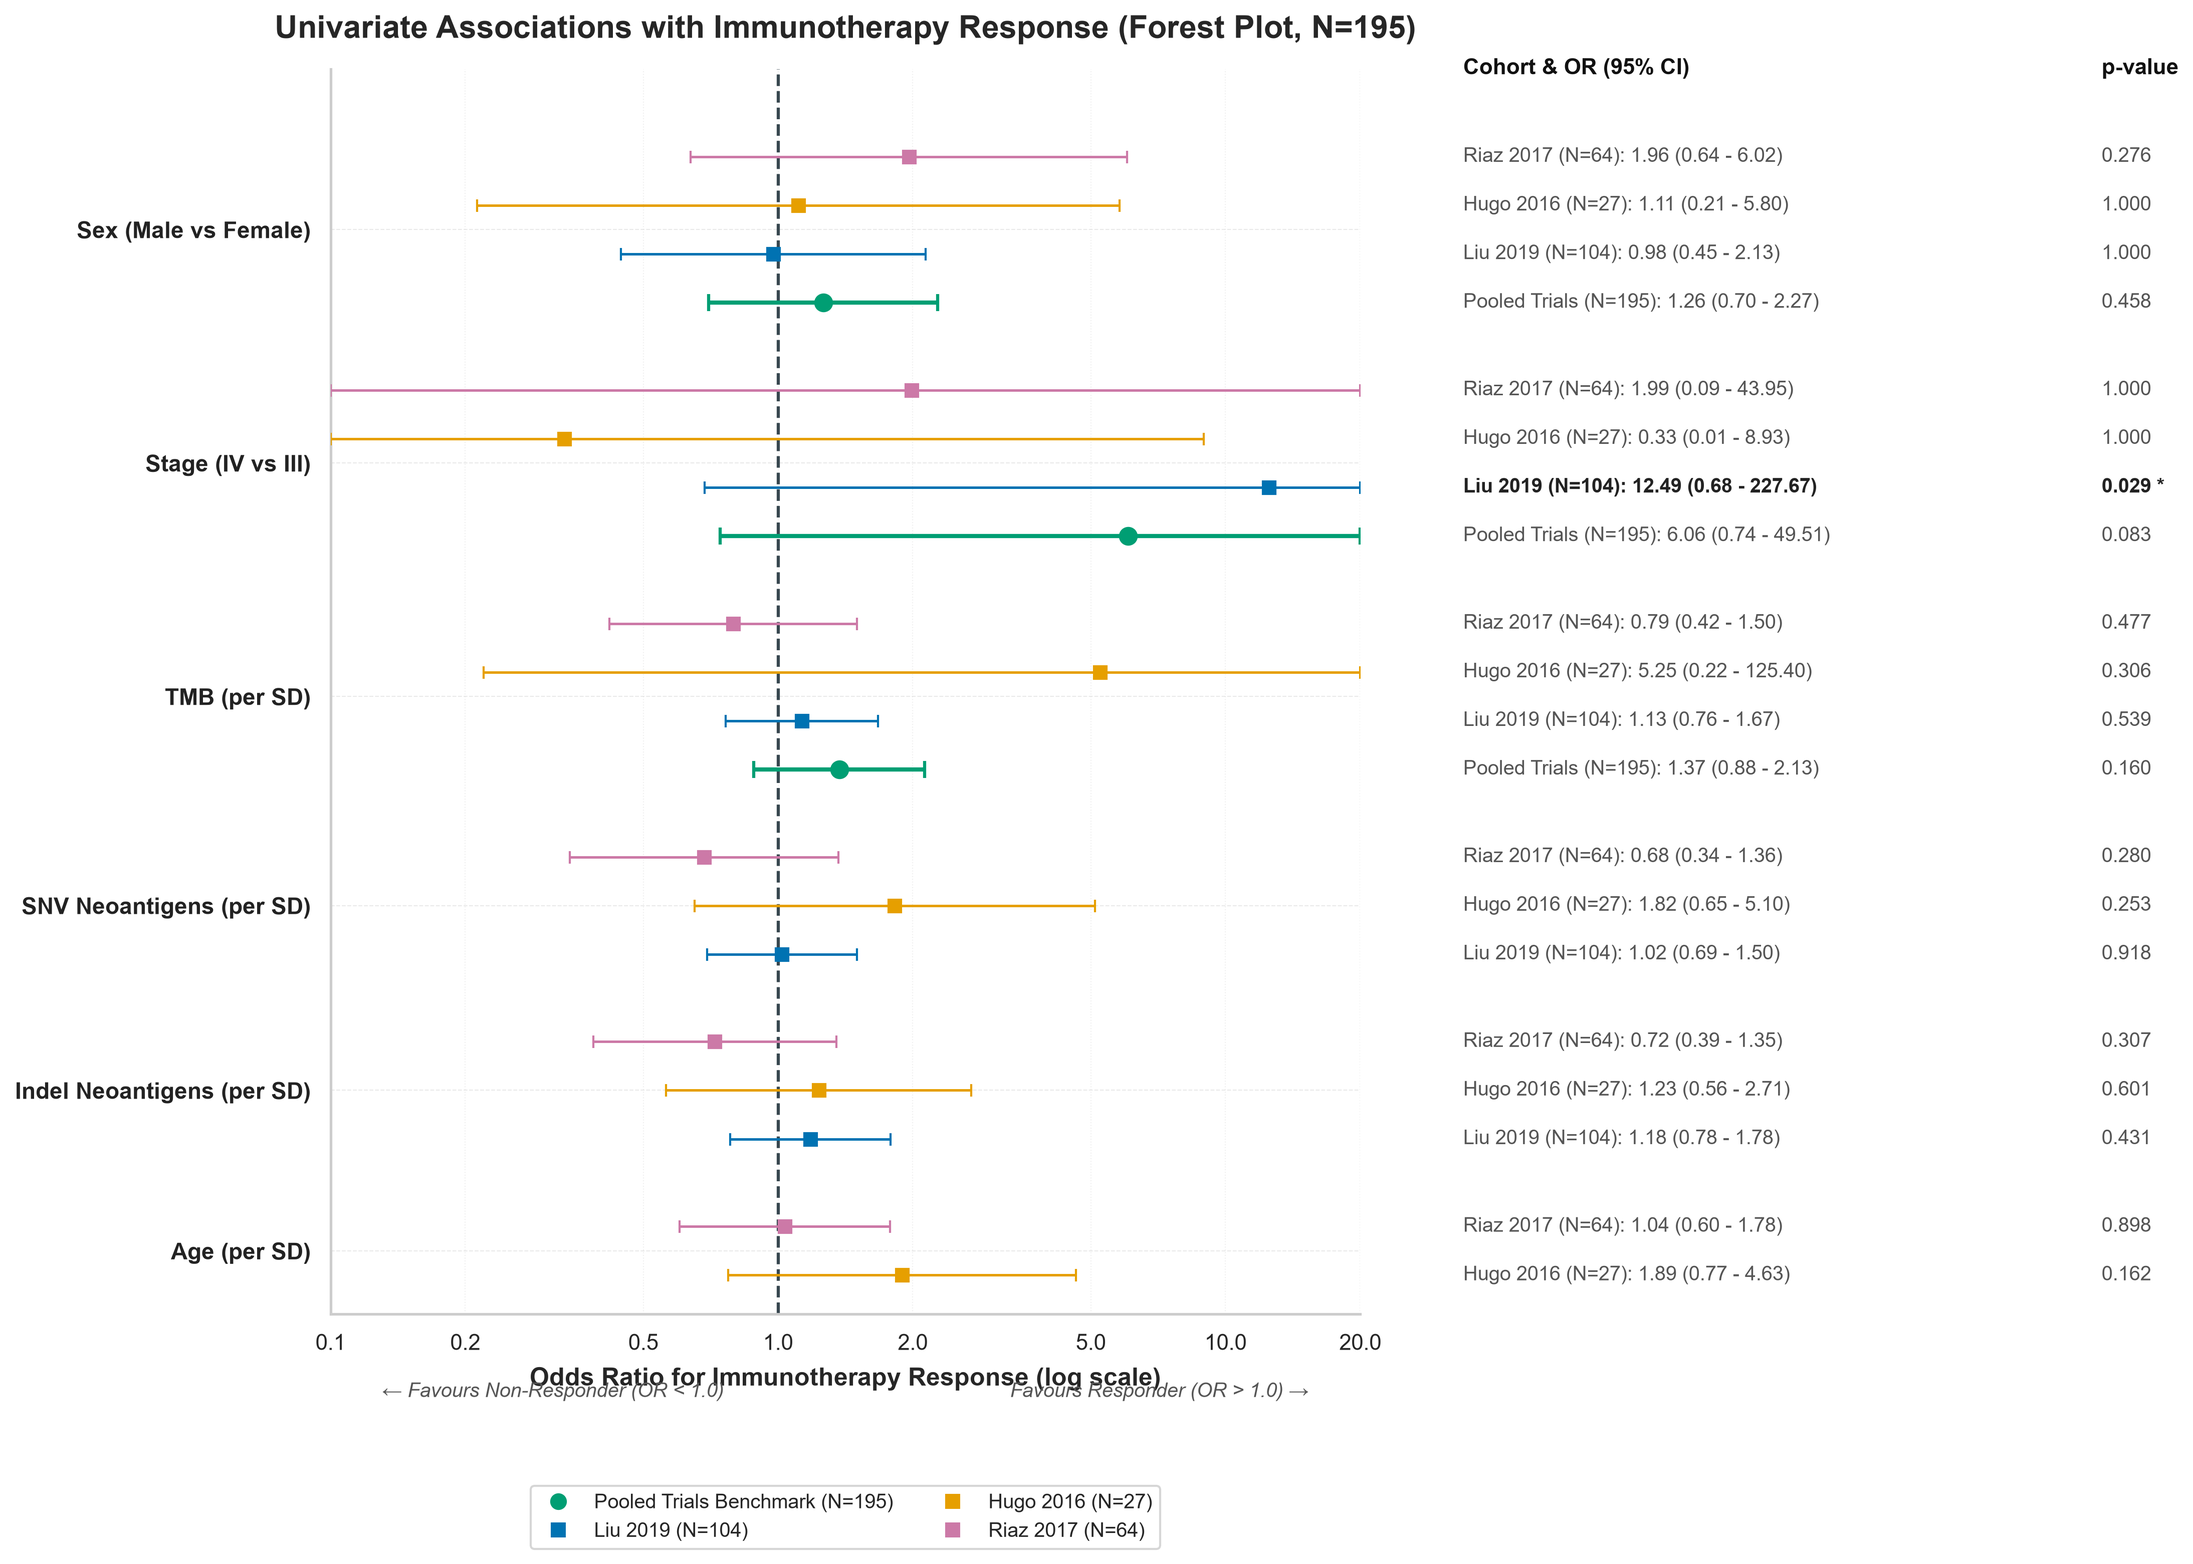
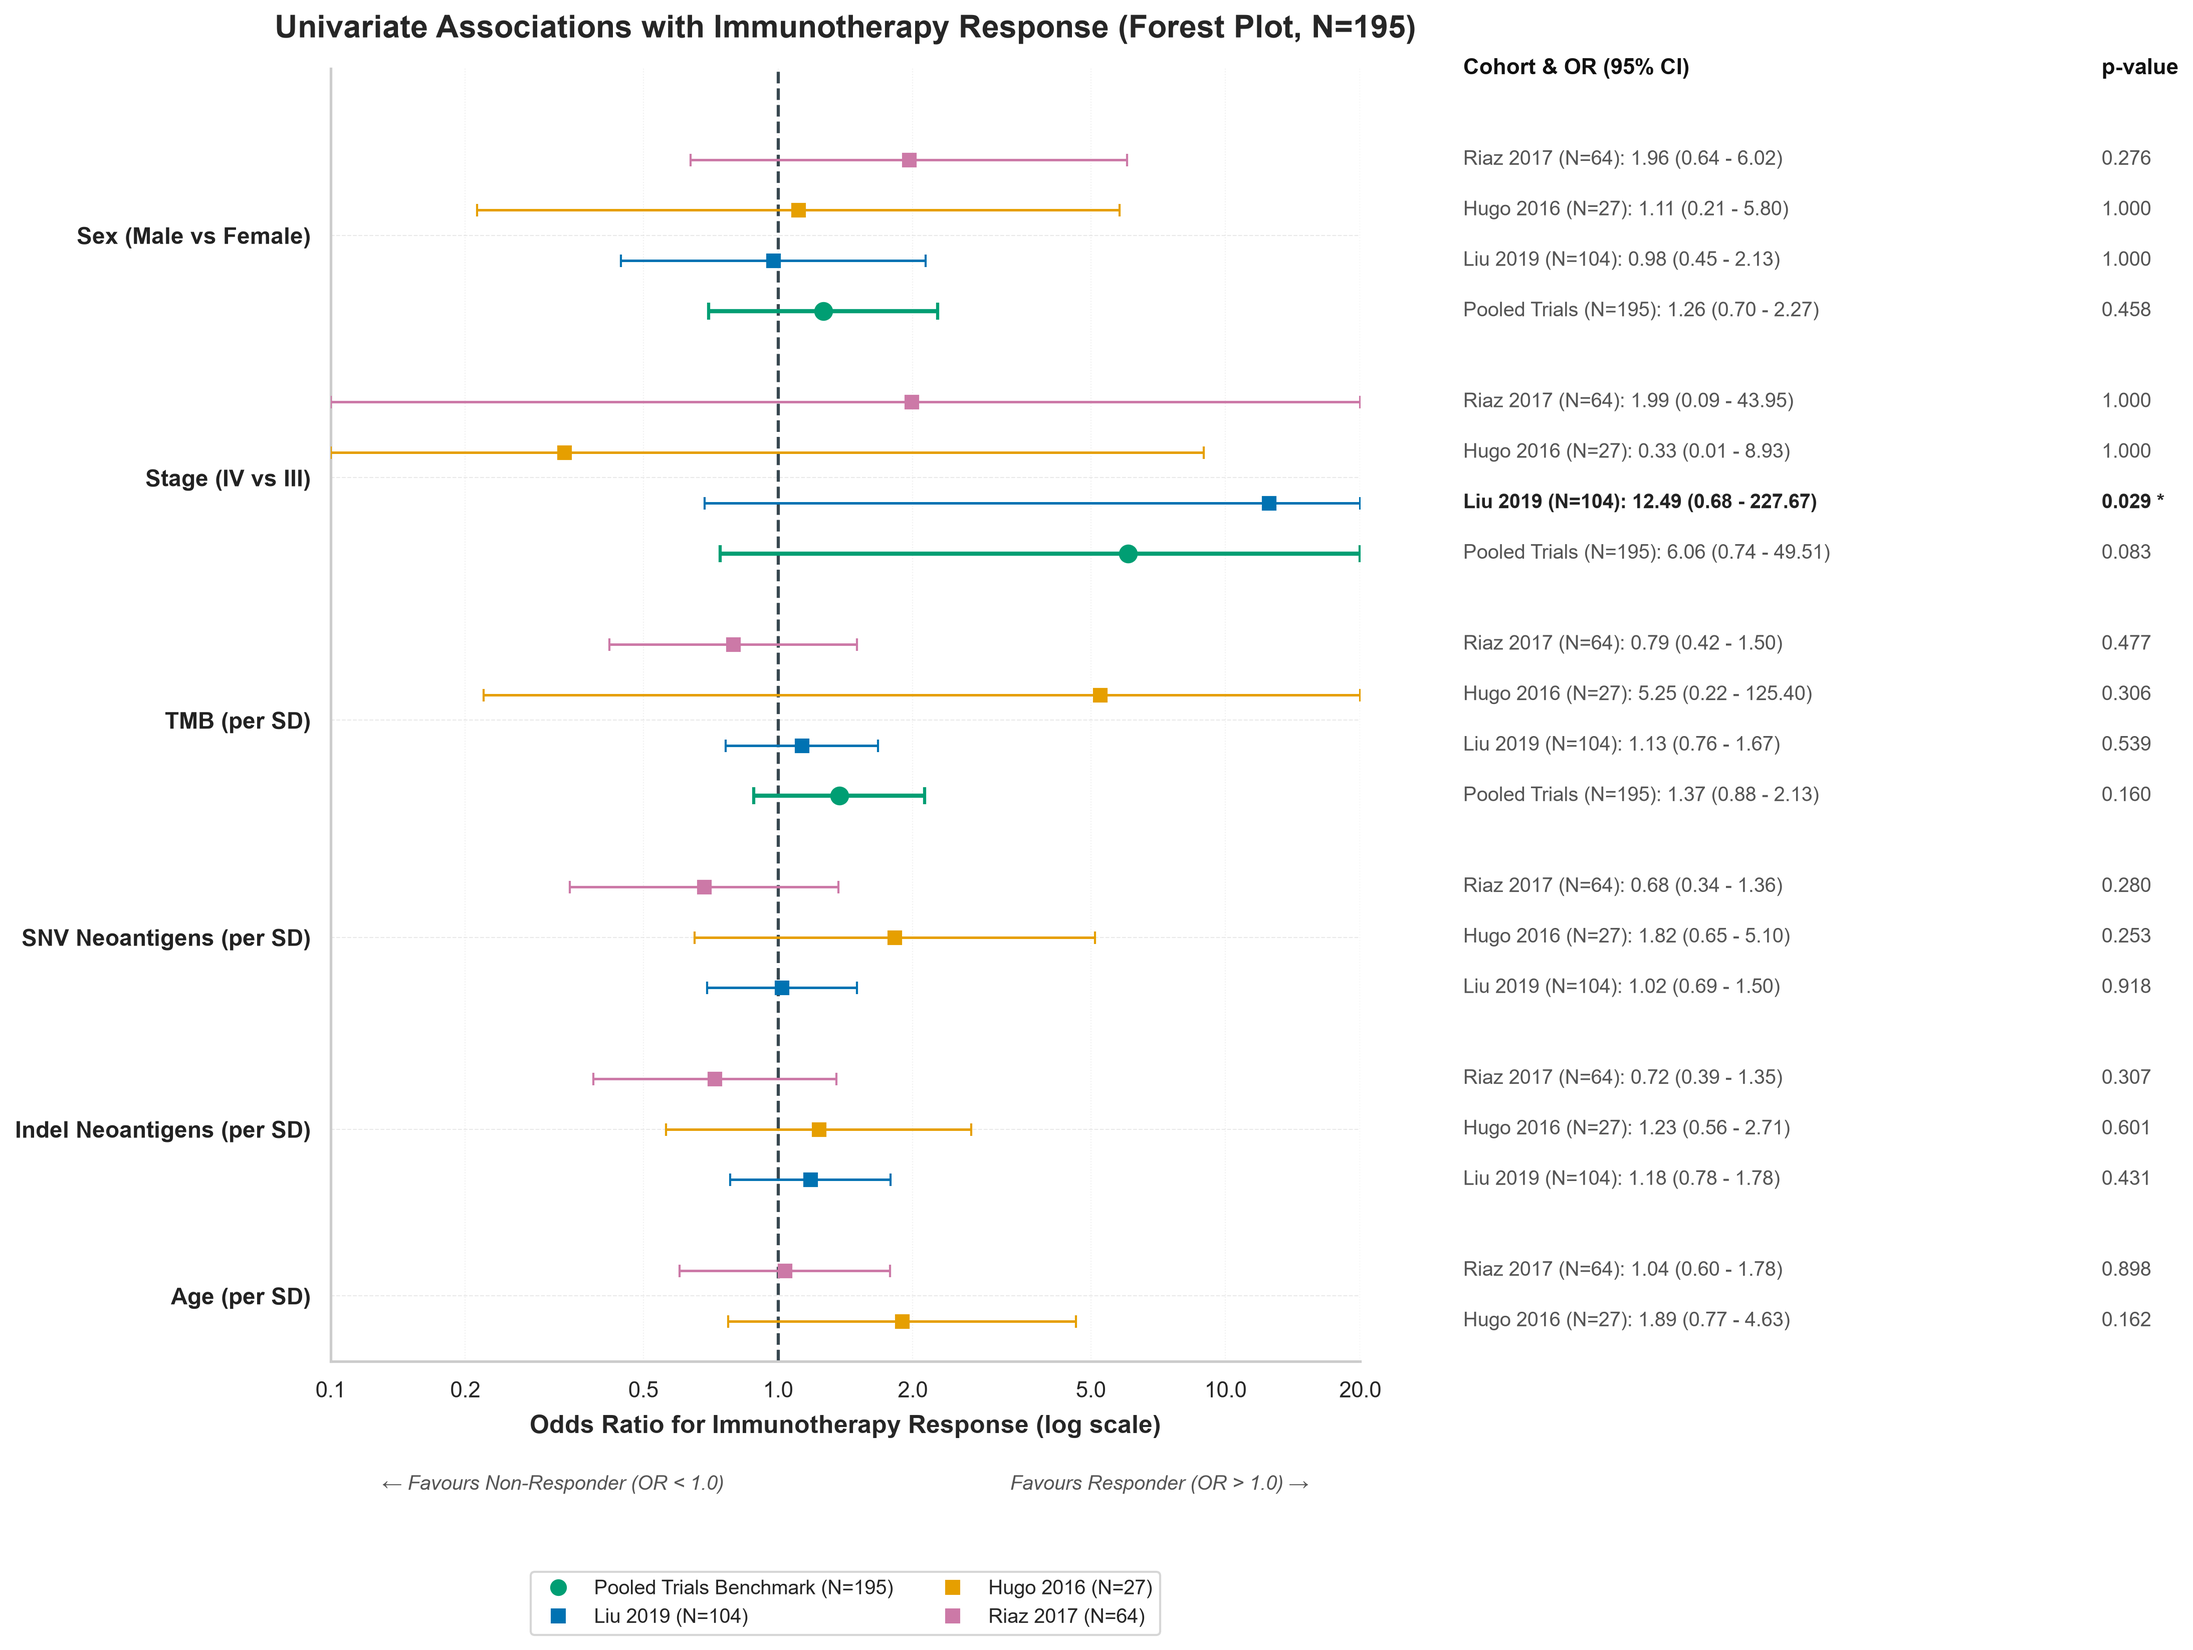
fix(visualization): shift direction text and legend down to avoid x-axis title overlap in univariate_associations.png
- Shifted direction text to y=-0.088 and cohort legend to bbox_to_anchor=(0.5, -0.155) in run_univariate_associations.py.
- Expanded bottom margin to 0.20 and figure height to 11 inches for optimal vertical spacing.

diff --git a/q1-response-predictor/scripts/clinical_analysis/run_univariate_associations.py b/q1-response-predictor/scripts/clinical_analysis/run_univariate_associations.py
@@ -256,8 +256,8 @@ def _plot_univariate_associations(all_results: pd.DataFrame, cohort_counts: Dict
 
     set_presentation_style()
     sns.set_theme(style="whitegrid")
-    fig, ax = plt.subplots(figsize=(13, 10.5))
-    plt.subplots_adjust(left=0.28, right=0.62, top=0.90, bottom=0.16)
+    fig, ax = plt.subplots(figsize=(13, 11))
+    plt.subplots_adjust(left=0.28, right=0.62, top=0.90, bottom=0.20)
 
     ax.set_xscale("log")
     ax.axvline(1.0, color="#37474F", linestyle="--", linewidth=1.5, zorder=1)
@@ -334,8 +334,8 @@ def _plot_univariate_associations(all_results: pd.DataFrame, cohort_counts: Dict
     ax.set_xlabel("Odds Ratio for Immunotherapy Response (log scale)", fontsize=12, labelpad=6, weight="bold")
     ax.set_title(f"Univariate Associations with Immunotherapy Response (Forest Plot, N={n_pooled})", fontsize=15, fontweight="bold", pad=15)
 
-    ax.text(0.95, -0.055, "Favours Responder (OR > 1.0) \u2192", transform=ax.transAxes, ha="right", va="top", color="#555555", fontsize=9.5, style="italic")
-    ax.text(0.05, -0.055, "\u2190 Favours Non-Responder (OR < 1.0)", transform=ax.transAxes, ha="left", va="top", color="#555555", fontsize=9.5, style="italic")
+    ax.text(0.95, -0.088, "Favours Responder (OR > 1.0) \u2192", transform=ax.transAxes, ha="right", va="top", color="#555555", fontsize=9.5, style="italic")
+    ax.text(0.05, -0.088, "\u2190 Favours Non-Responder (OR < 1.0)", transform=ax.transAxes, ha="left", va="top", color="#555555", fontsize=9.5, style="italic")
 
     legend_elements = [
         mlines.Line2D([0], [0], marker="o", color="none", markerfacecolor=get_cohort_color("Pooled Trials"), markeredgecolor="none", markersize=8, label=f"Pooled Trials Benchmark (N={cohort_counts.get('Pooled Trials', 0)})"),
@@ -343,7 +343,7 @@ def _plot_univariate_associations(all_results: pd.DataFrame, cohort_counts: Dict
         mlines.Line2D([0], [0], marker="s", color="none", markerfacecolor=get_cohort_color("Hugo 2016"), markeredgecolor="none", markersize=7, label=f"Hugo 2016 (N={cohort_counts.get('Hugo 2016', 0)})"),
         mlines.Line2D([0], [0], marker="s", color="none", markerfacecolor=get_cohort_color("Riaz 2017"), markeredgecolor="none", markersize=7, label=f"Riaz 2017 (N={cohort_counts.get('Riaz 2017', 0)})"),
     ]
-    ax.legend(handles=legend_elements, loc="upper center", bbox_to_anchor=(0.5, -0.13), ncol=2, frameon=True, facecolor="white", edgecolor="#CCCCCC", fontsize=9.5)
+    ax.legend(handles=legend_elements, loc="upper center", bbox_to_anchor=(0.5, -0.155), ncol=2, frameon=True, facecolor="white", edgecolor="#CCCCCC", fontsize=9.5)
 
     sns.despine(ax=ax, top=True, right=True)
     ax.yaxis.grid(True, linestyle="--", color="#E0E0E0", linewidth=0.5, alpha=0.7)
